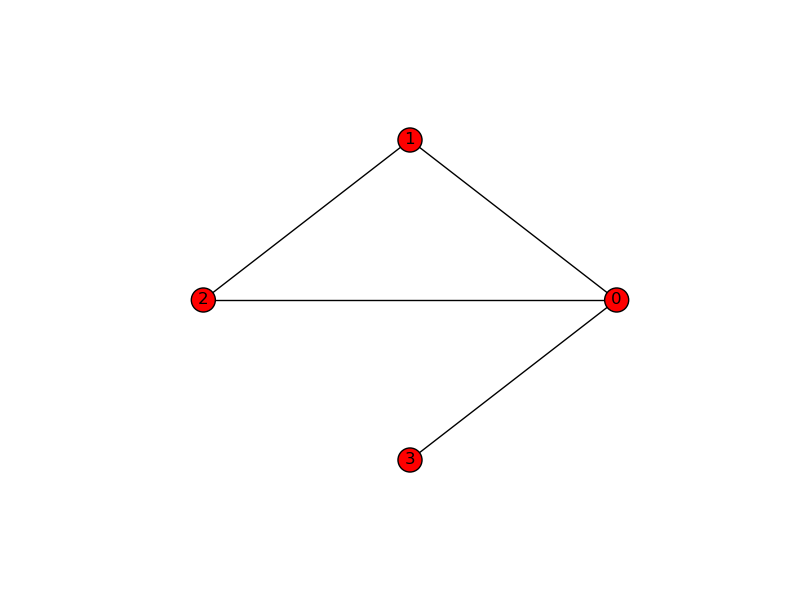
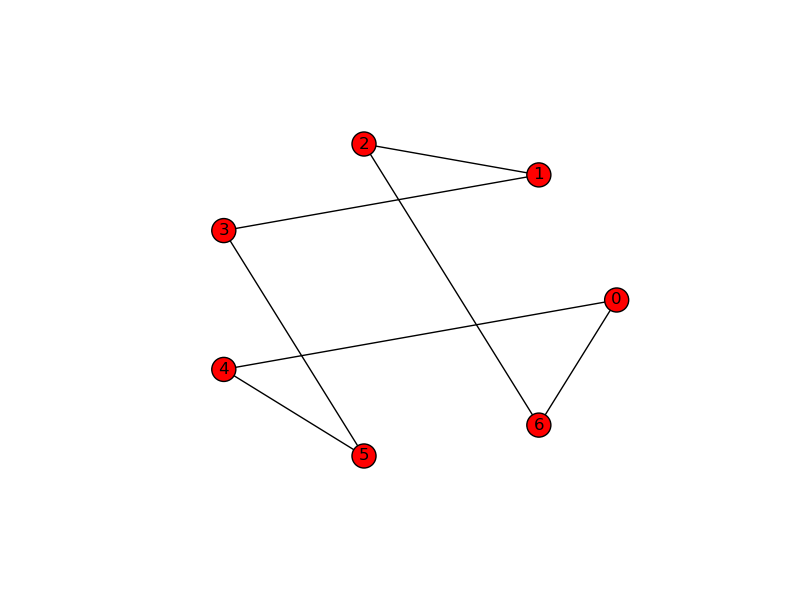
Dodanie grafu k-regularnego do menu

diff --git a/02.py b/02.py
@@ -21,6 +21,7 @@ def menu():
 6. Przeszukiwanie grafu w głąb
 7. Cykl Eulera
 8. Cykl Hamiltona
+9. Graf k-regularny
 0. Exit
 '''
 			
@@ -68,5 +69,7 @@ while True:
 	elif flag==8:
 		if graph.isHamiltonian():
 			print "Graf jest hamiltonowski"
+	elif flag==9:
+		graph=kregular()
 
 		

diff --git a/Graph.py b/Graph.py
@@ -18,7 +18,6 @@ def kregular():
 		seq=[int(k) for i in range(il)]
 		if isGraphical(seq):
 			f=True	
-	print(f)
 	g=Graph(seq)
 	g.rand()
 	return g
@@ -48,6 +47,7 @@ class Graph(BaseGraph):
 
 		plt.axis('off')
 		plt.savefig("temp.png")
+		plt.clf()
 
 
 	def isEulerian(self):
